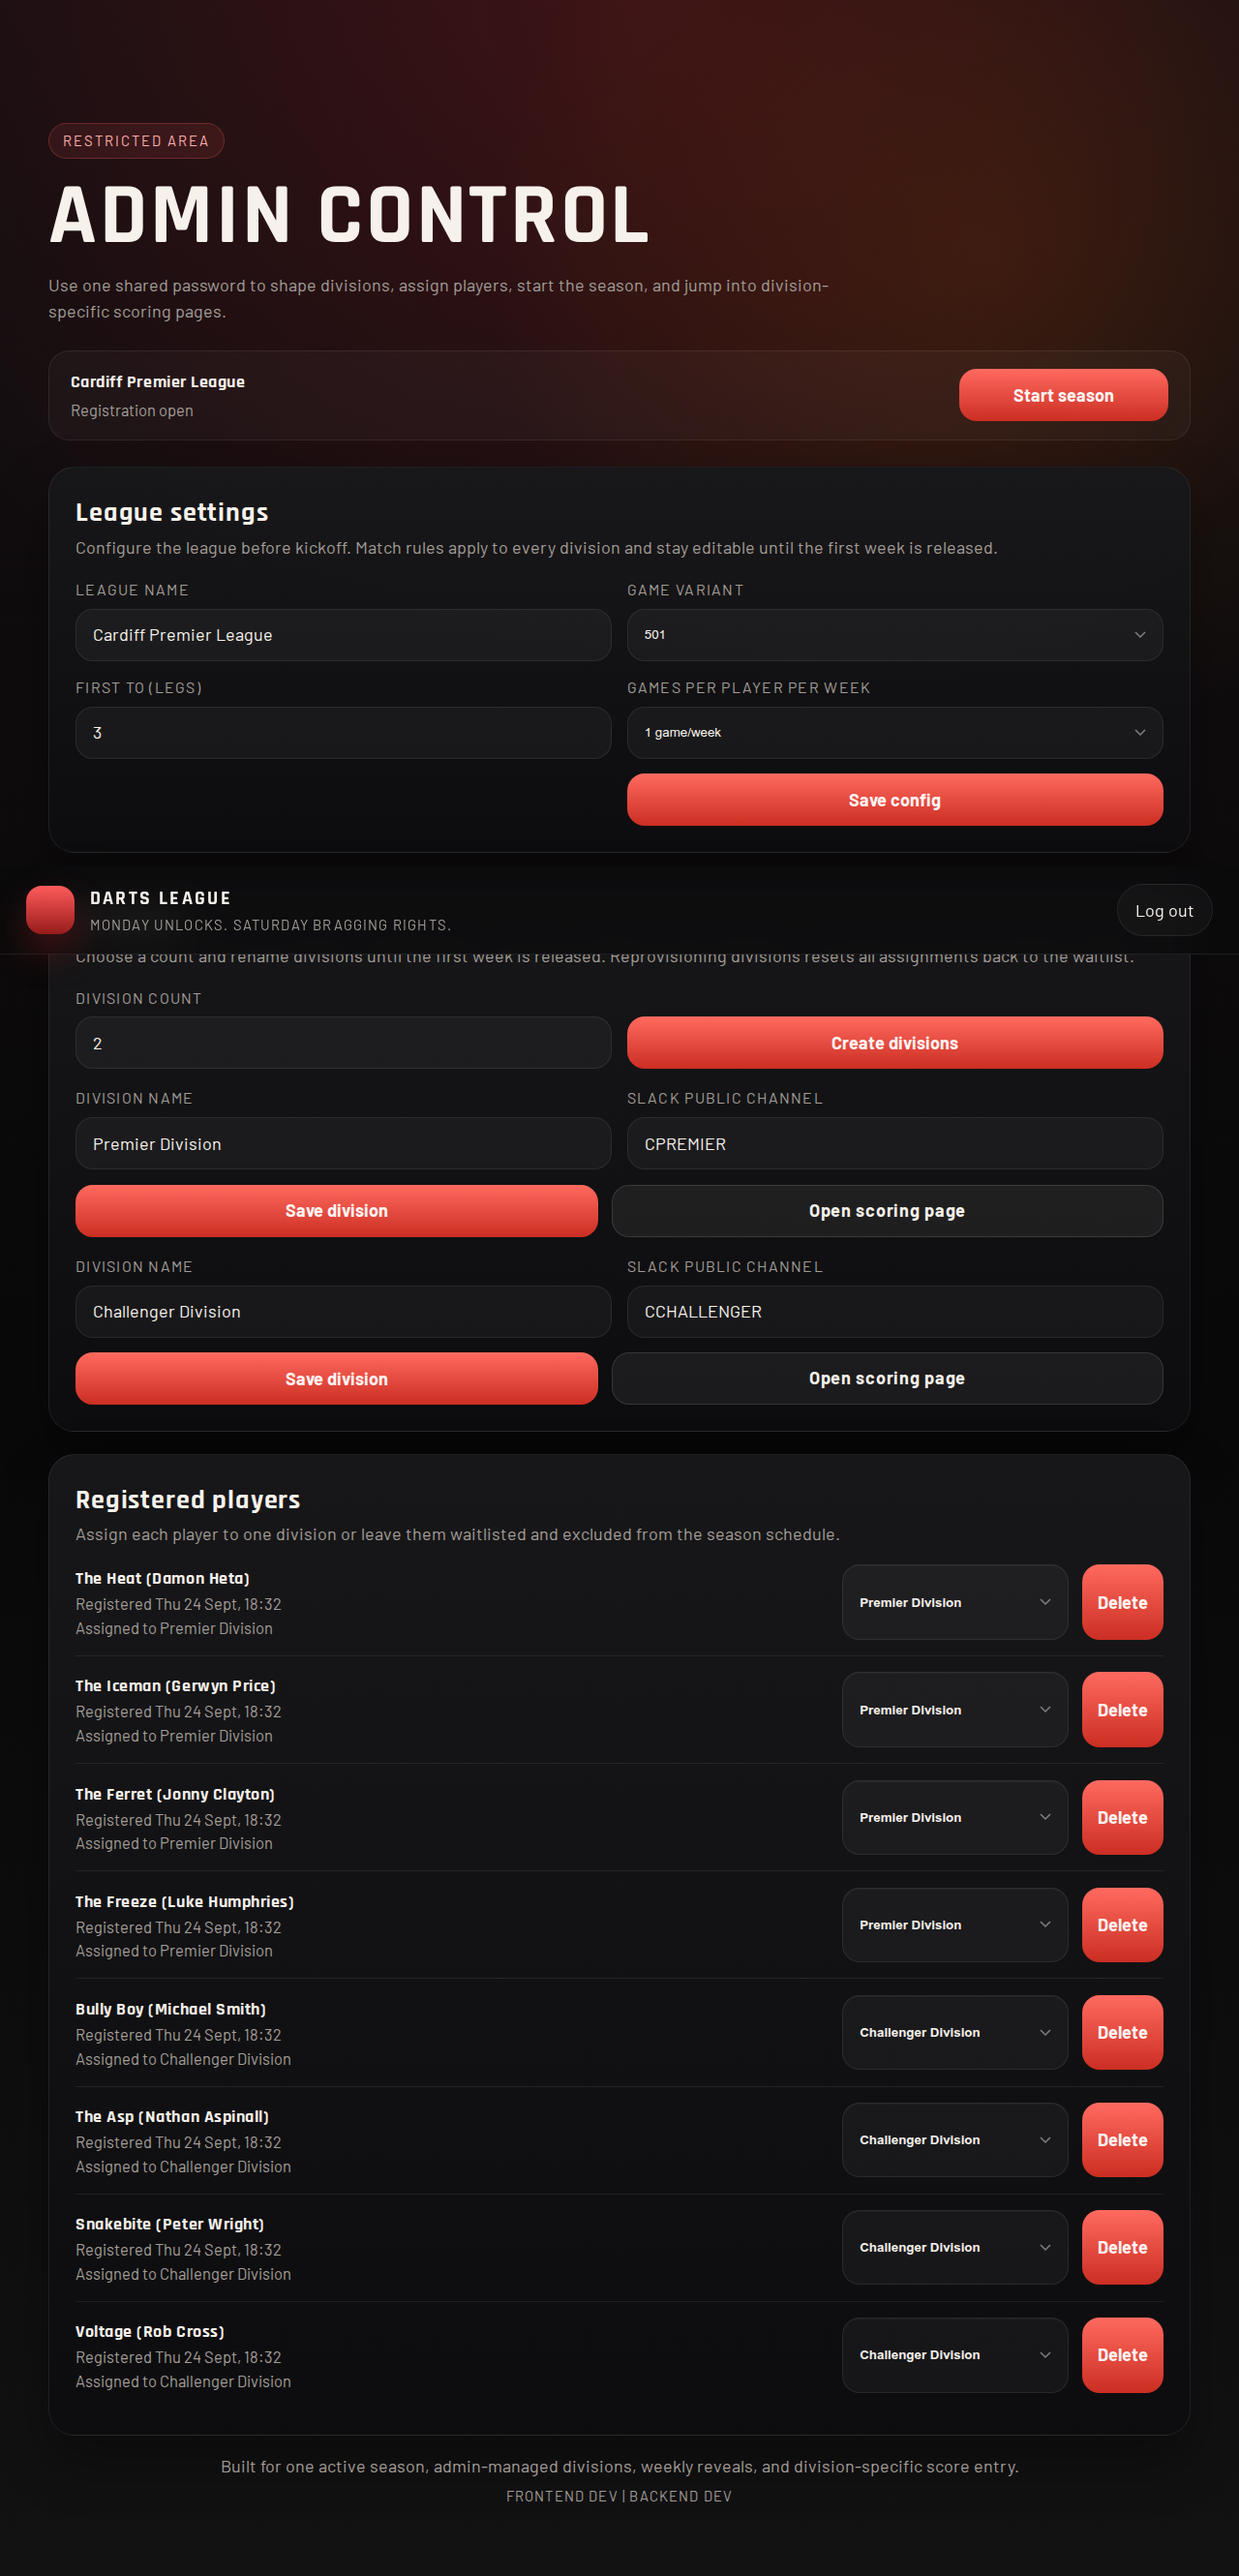
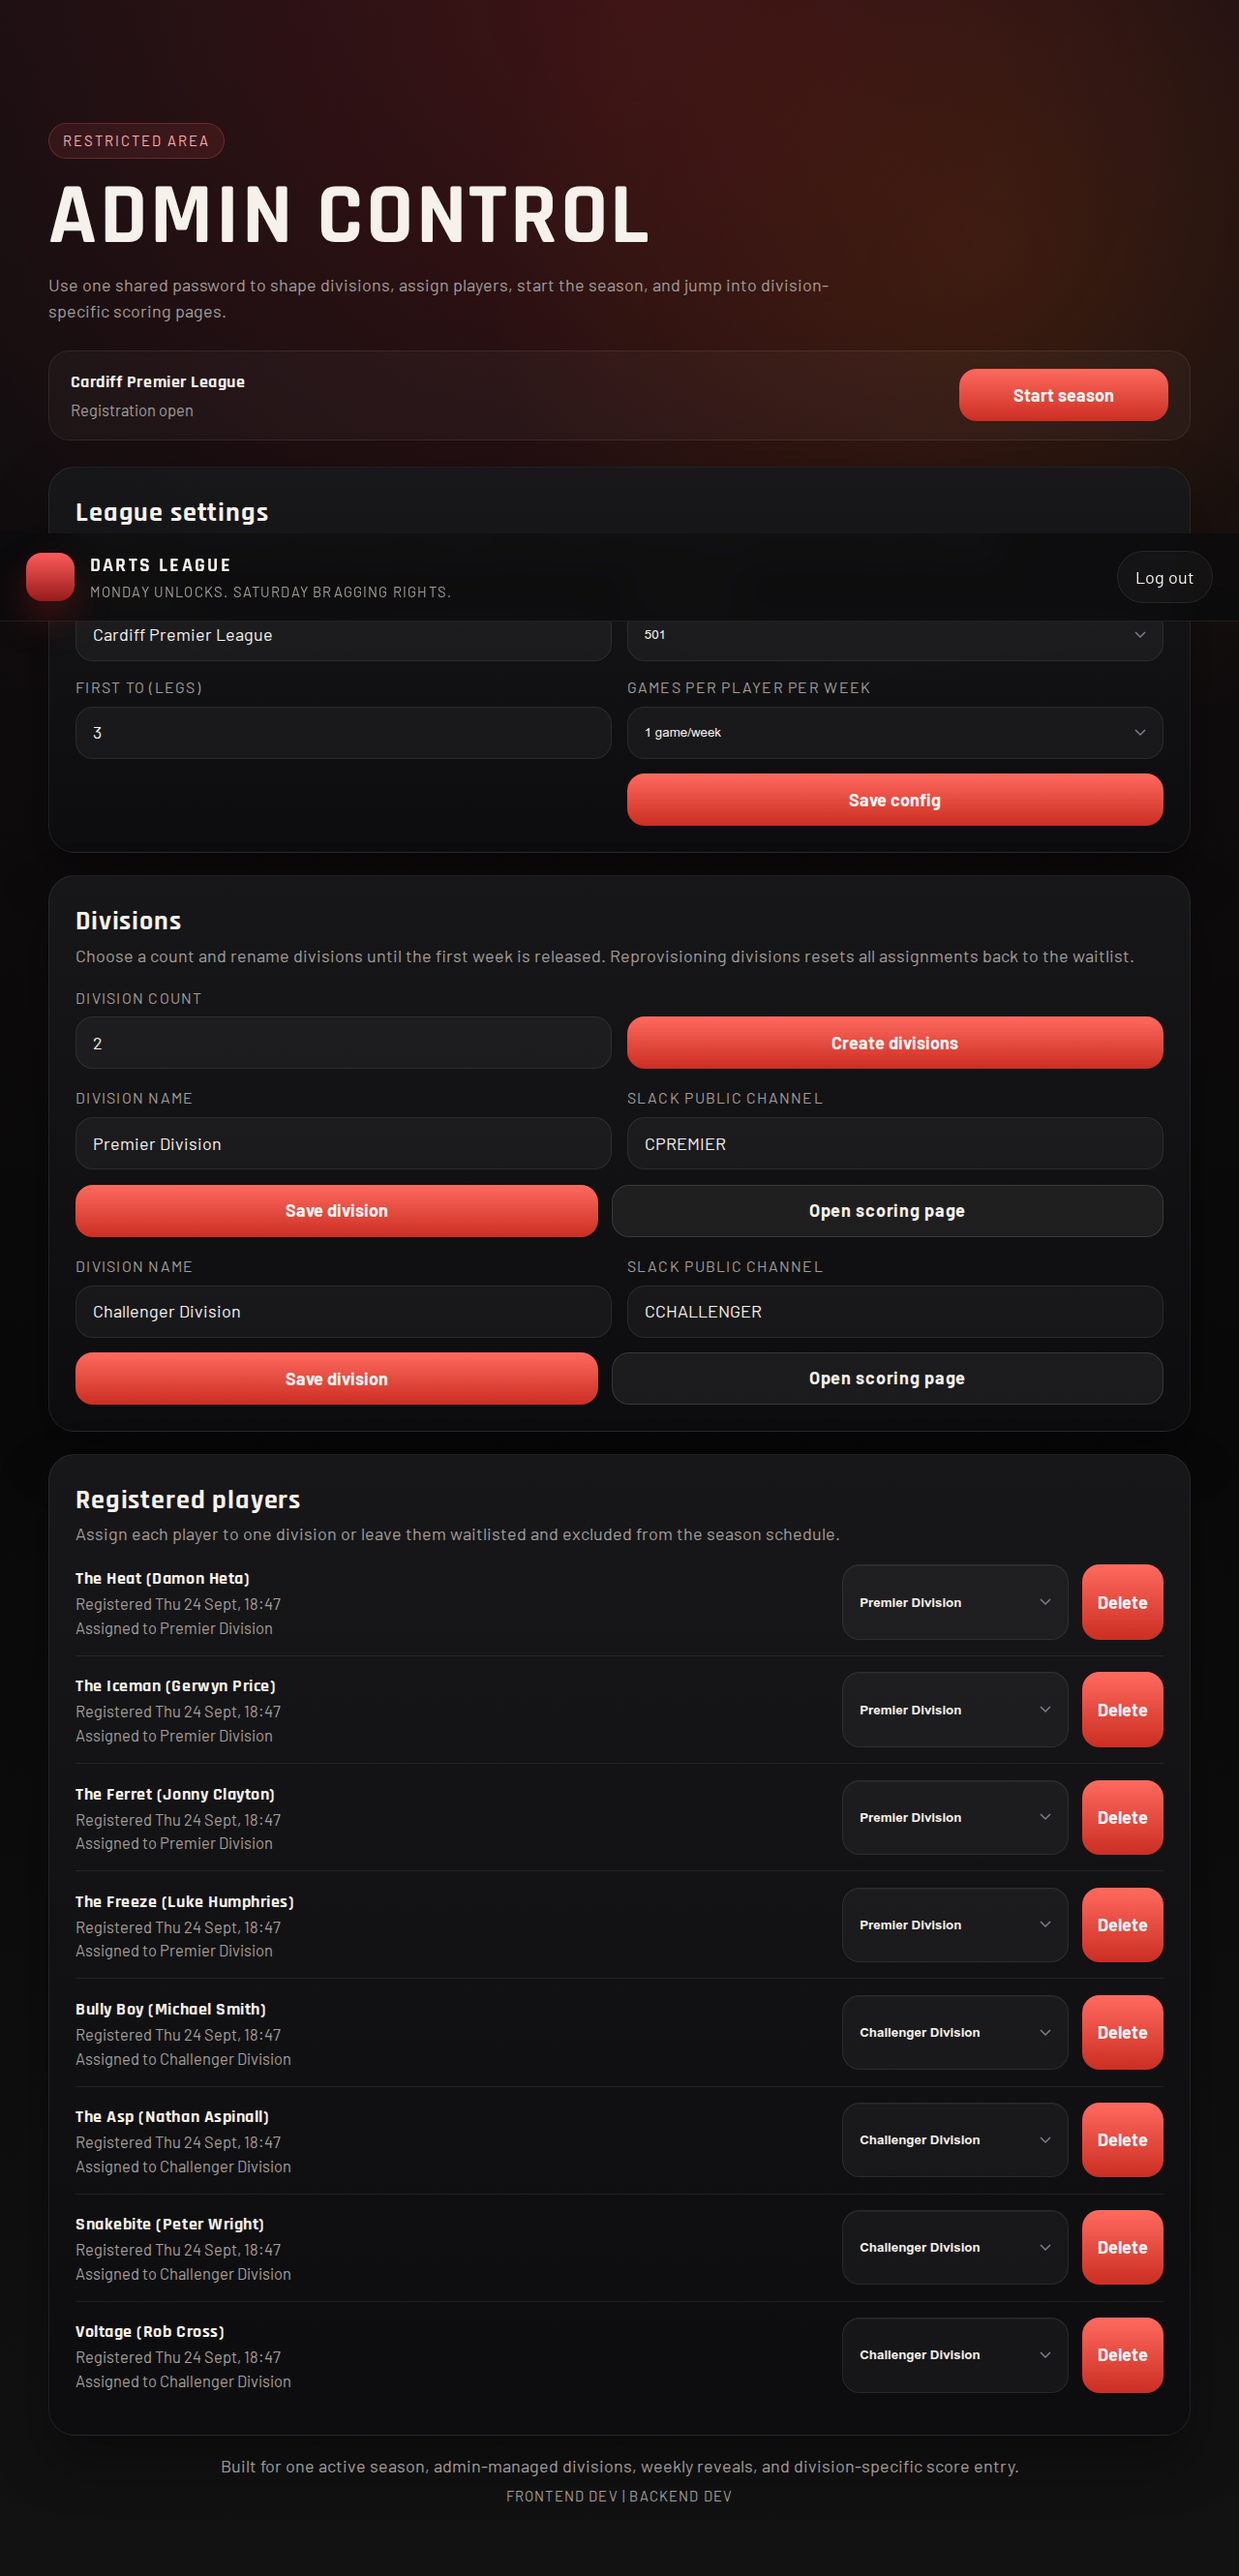
Updating some buttons

Changed region(s): [[0.0, 0.1871, 0.1875, 0.2495], [0.0, 0.3431, 0.1875, 0.3743]]

diff --git a/frontend/src/test/helpers.tsx b/frontend/src/test/helpers.tsx
@@ -31,6 +31,8 @@ export type AppState = {
   lifecycleError?: boolean
   firstWeekReleased?: boolean
   seasonName: string
+  playerCount?: number
+  assignedCount?: number
 }
 
 export function createMockFetch(state: AppState) {
@@ -56,14 +58,14 @@ export function createMockFetch(state: AppState) {
         can_edit_division_channel: !state.firstWeekReleased && !state.seasonCompleted,
         can_edit_divisions: !state.firstWeekReleased && !state.seasonCompleted,
         can_assign_players: !state.firstWeekReleased && !state.seasonCompleted,
-        player_count: 4,
+        player_count: state.playerCount ?? (state.seasonId === 2 ? 0 : 4),
         week_count: state.seasonStarted ? 3 : 0,
         game_variant: '501',
         legs_to_win: 3,
         games_per_week: 1,
         total_fixtures: state.seasonStarted ? 6 : 0,
         division_count: 2,
-        assigned_count: state.seasonStarted ? 4 : 2,
+        assigned_count: state.assignedCount ?? (state.seasonId === 2 ? 0 : state.seasonStarted ? 4 : 2),
         waitlist_count: state.seasonStarted ? 0 : 2,
       })
     }
@@ -136,7 +138,7 @@ export function createMockFetch(state: AppState) {
       if (!state.authenticated) {
         return response({ error: { code: 'unauthorized', message: 'Admin login is required.' } }, 401)
       }
-      if (state.seasonId === 2) return response({ players: [] })
+      if (state.seasonId === 2 || state.playerCount === 0) return response({ players: [] })
       return response({
         players: [
           { id: 1, display_name: 'Luke Humphries', preferred_name: 'The Freeze', admin_label: 'The Freeze (Luke Humphries)', status: 'waitlist', registered_at: 'Mon, 16 Mar 2026 19:00:00 GMT' },

diff --git a/frontend/src/pages/admin/AdminPage.tsx b/frontend/src/pages/admin/AdminPage.tsx
@@ -63,6 +63,7 @@ export function AdminPage() {
   }
 
   const unauthenticated = playersQuery.error instanceof ApiError && playersQuery.error.status === 401
+  const needsPlayers = seasonQuery.data?.registration_open === true && seasonQuery.data.player_count === 0
 
   return (
     <>
@@ -108,10 +109,11 @@ export function AdminPage() {
             <div className="toolbar-block">
               <strong>{seasonQuery.data?.name ?? 'Active season'}</strong>
               <span className="fixture-meta">{seasonQuery.data?.status === 'completed' ? 'Season completed' : seasonQuery.data?.registration_open ? 'Registration open' : 'Season started'}</span>
+              {needsPlayers ? <p id="season-start-help" className="fixture-meta">No players registered yet. Register at least two players and assign them to the same division before starting the season.</p> : null}
             </div>
             <div className="toolbar-actions">
               {seasonQuery.data?.can_start_season ? (
-                <button className="season-start-button" type="button" onClick={() => seasonStartMutation.mutate()} disabled={seasonStartMutation.isPending || (seasonQuery.data?.assigned_count ?? 0) < 2}>{seasonStartMutation.isPending ? 'Starting season...' : 'Start season'}</button>
+                <button className="season-start-button" type="button" aria-describedby={needsPlayers ? 'season-start-help' : undefined} onClick={() => seasonStartMutation.mutate()} disabled={seasonStartMutation.isPending || (seasonQuery.data?.assigned_count ?? 0) < 2}>{seasonStartMutation.isPending ? 'Starting season...' : 'Start season'}</button>
               ) : null}
             </div>
           </section>

diff --git a/frontend/tests/smoke.spec.ts b/frontend/tests/smoke.spec.ts
@@ -44,6 +44,10 @@ async function captureScreenshot(page: Page, fileName: string) {
 
 test('register, assign divisions, start season, enter result, and view division standings', async ({ page }) => {
   const leagueName = 'Cardiff Premier League'
+  await page.goto('/')
+  const registerAction = page.locator('.hero-actions').first().getByRole('link', { name: 'Register', exact: true })
+  await expect(registerAction).toHaveAttribute('href', '/register')
+  await expect(registerAction).toHaveCSS('background-image', /linear-gradient/)
   const players = [
     ['Luke Humphries', 'The Freeze'],
     ['Michael Smith', 'Bully Boy'],
@@ -256,6 +260,10 @@ test('register, assign divisions, start season, enter result, and view division 
   page.once('dialog', (dialog) => dialog.accept())
   await page.getByRole('button', { name: 'Open next season registration' }).click()
   await expect(page.getByRole('button', { name: 'Start season' })).toBeVisible()
+  await expect(page.getByRole('button', { name: 'Start season' })).toBeDisabled()
+  await expect(page.getByRole('button', { name: 'Start season' })).toHaveCSS('background-image', 'none')
+  await expect(page.getByRole('button', { name: 'Start season' })).toHaveCSS('cursor', 'not-allowed')
+  await expect(page.getByText(/no players registered yet/i)).toBeVisible()
   await expect(page.getByRole('link', { name: 'Open scoring page' })).toHaveCount(0)
   await page.goto('/register')
   await page.getByLabel('Display name').fill('Luke Humphries')

diff --git a/frontend/src/pages/admin/AdminPage.test.tsx b/frontend/src/pages/admin/AdminPage.test.tsx
@@ -44,6 +44,26 @@ describe('Admin page', () => {
     })
   })
 
+  it('explains that players are required and disables starting an empty season', async () => {
+    const fetch = createMockFetch({ authenticated: true, seasonStarted: false, seasonName: 'New League', playerCount: 0, assignedCount: 0 })
+    vi.stubGlobal('fetch', fetch)
+    renderApp('/admin')
+
+    const start = await screen.findByRole('button', { name: 'Start season' })
+    expect(start).toBeDisabled()
+    expect(start).toHaveAccessibleDescription(/no players registered yet.*at least two players.*same division/i)
+    fireEvent.click(start)
+    expect(fetch.mock.calls.some(([path]) => path === '/api/admin/season/start')).toBe(false)
+  })
+
+  it('enables starting with assigned players without the empty-roster message', async () => {
+    vi.stubGlobal('fetch', createMockFetch({ authenticated: true, seasonStarted: false, seasonName: 'Ready League', playerCount: 2, assignedCount: 2 }))
+    renderApp('/admin')
+
+    expect(await screen.findByRole('button', { name: 'Start season' })).toBeEnabled()
+    expect(screen.queryByText(/no players registered yet/i)).not.toBeInTheDocument()
+  })
+
   it('keeps settings editable after season start until the first week is released', async () => {
     renderApp('/admin')
 

diff --git a/frontend/src/pages/home/HomePage.test.tsx b/frontend/src/pages/home/HomePage.test.tsx
@@ -21,6 +21,8 @@ describe('Home page', () => {
     expect(screen.getByText(/challenger division/i)).toBeInTheDocument()
     expect(screen.getAllByRole('link', { name: /view fixtures/i }).length).toBe(2)
     expect(screen.getByText(/registered players waiting for assignment/i)).toBeInTheDocument()
+    expect(screen.getAllByRole('link', { name: 'Register' })).toHaveLength(2)
+    expect(screen.queryByRole('link', { name: 'Join the waitlist' })).not.toBeInTheDocument()
     expect(await screen.findByText(/backend v0.0.6/i)).toBeInTheDocument()
     expect(screen.getByText(/frontend dev/i)).toBeInTheDocument()
     await waitFor(() => {

diff --git a/frontend/src/App.css b/frontend/src/App.css
@@ -187,7 +187,7 @@
   box-shadow: 0 1rem 2rem rgba(203, 46, 34, 0.32);
 }
 
-.hero-actions a:last-child {
+.hero-actions a:last-child:not(:first-child) {
   color: var(--color-text);
   border: 1px solid rgba(255, 255, 255, 0.12);
   background: rgba(255, 255, 255, 0.04);
@@ -777,6 +777,7 @@
   min-width: clamp(8rem, 20vw, 12rem);
 }
 
+.season-start-button:disabled,
 .season-close-button:disabled {
   color: var(--color-muted);
   background: var(--color-surface-raised);

diff --git a/frontend/src/pages/home/HomePage.tsx b/frontend/src/pages/home/HomePage.tsx
@@ -21,7 +21,7 @@ export function HomePage() {
             standings, and weekly reveal schedule.
           </p>
           <div className="hero-actions">
-            {seasonQuery.data?.registration_open ? <NavLink to="/register">Join the waitlist</NavLink> : null}
+            {seasonQuery.data?.registration_open ? <NavLink to="/register">Register</NavLink> : null}
           </div>
         </div>
 
